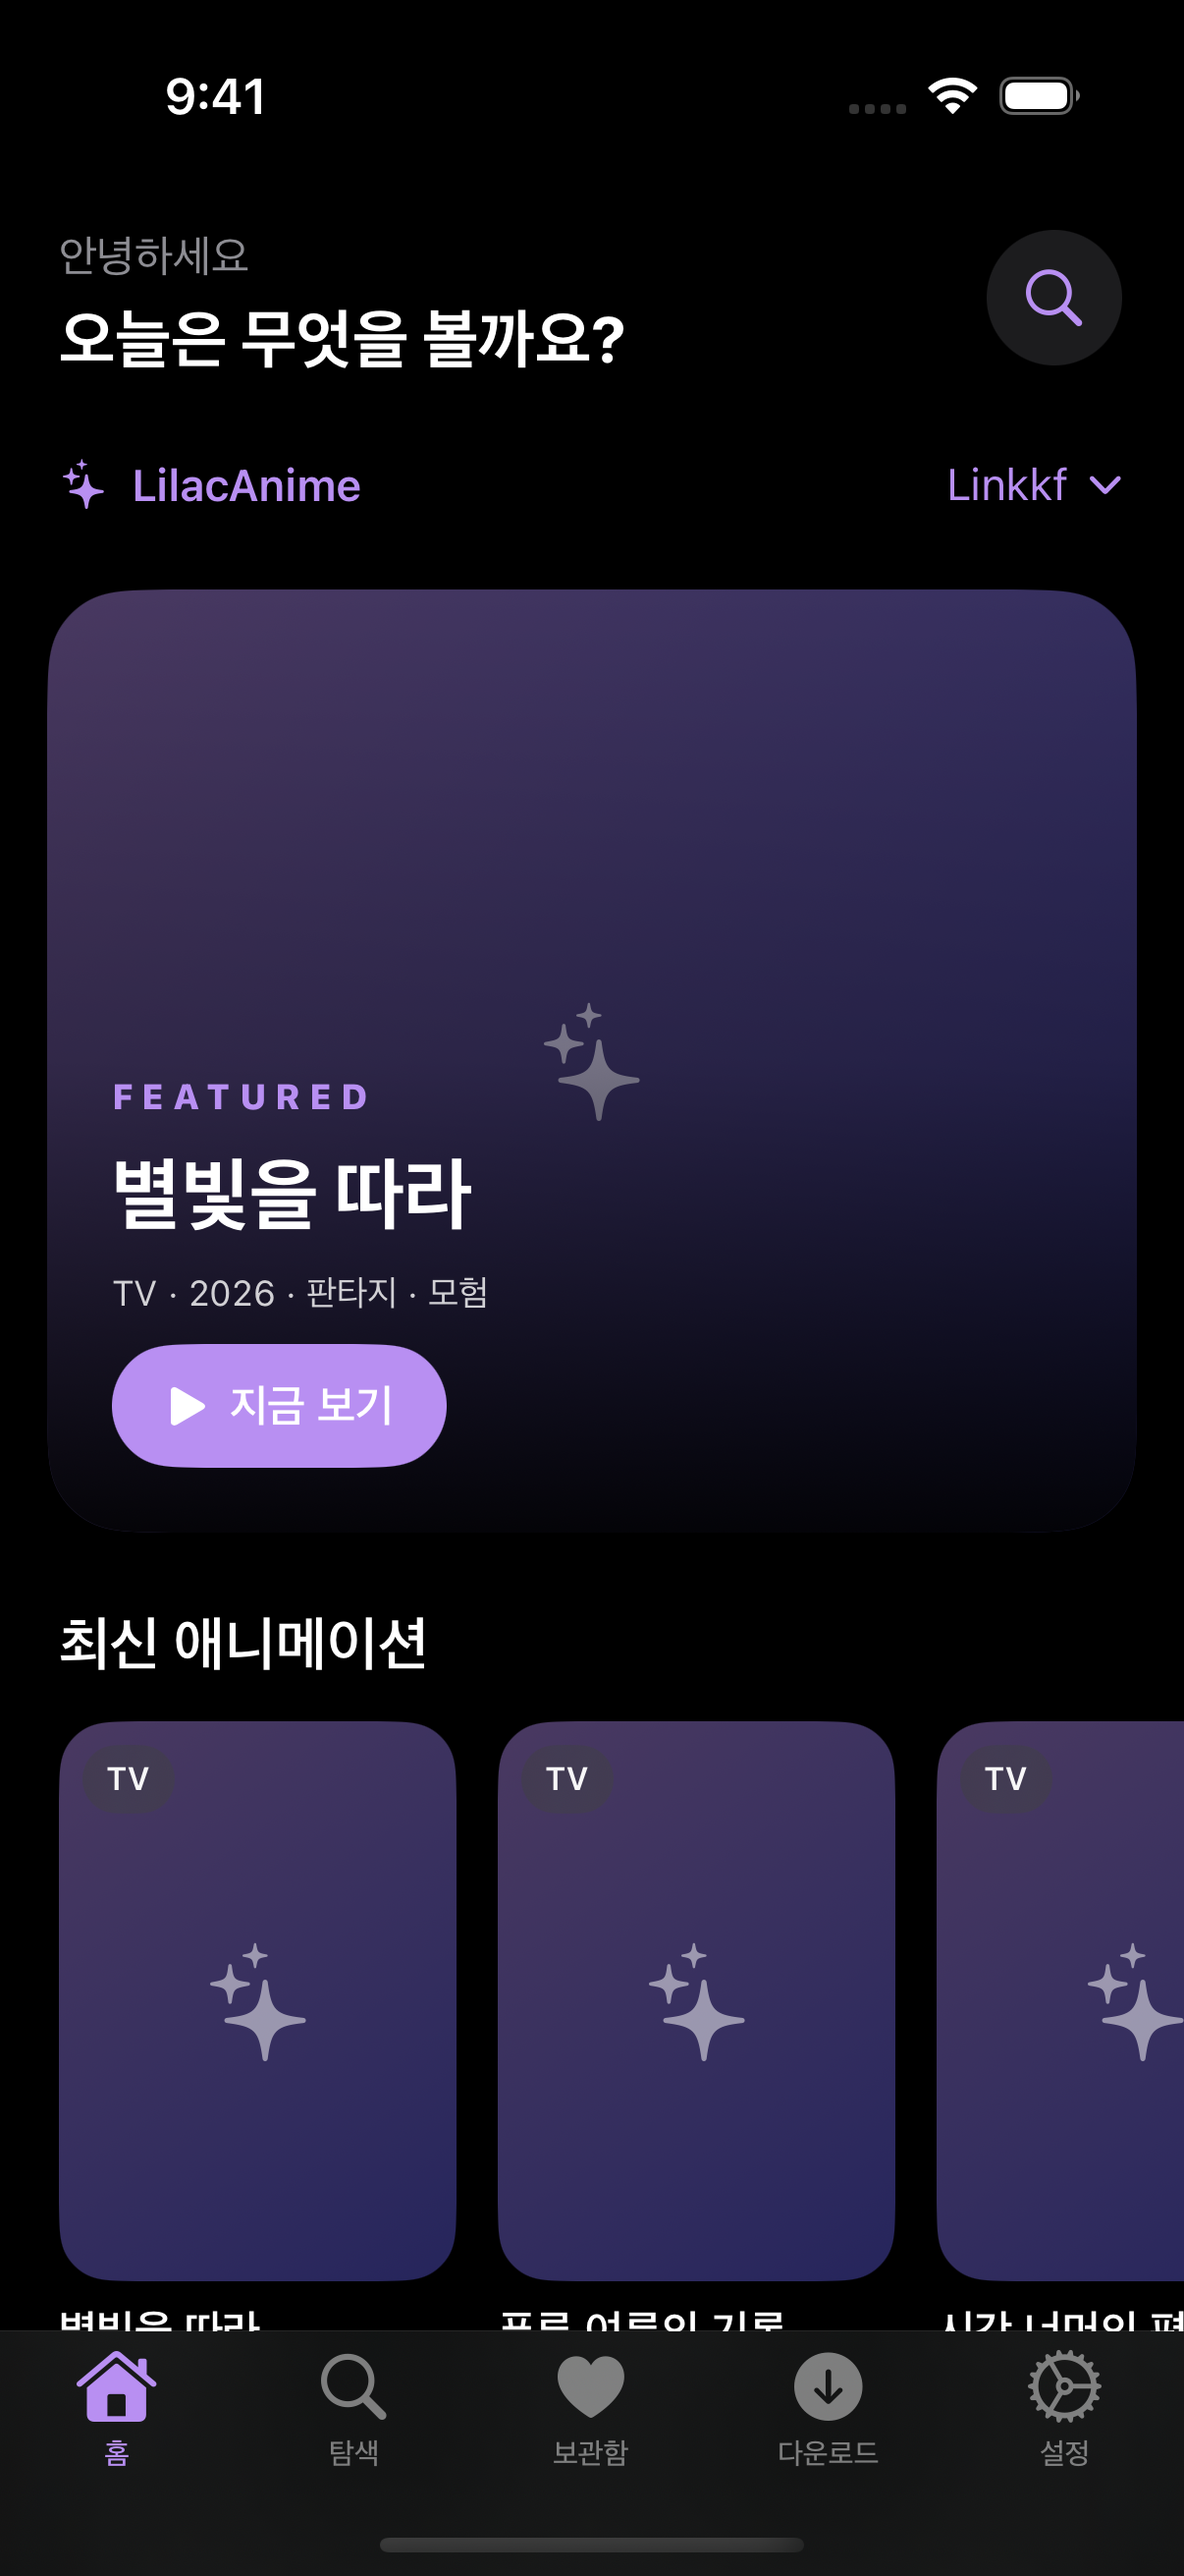
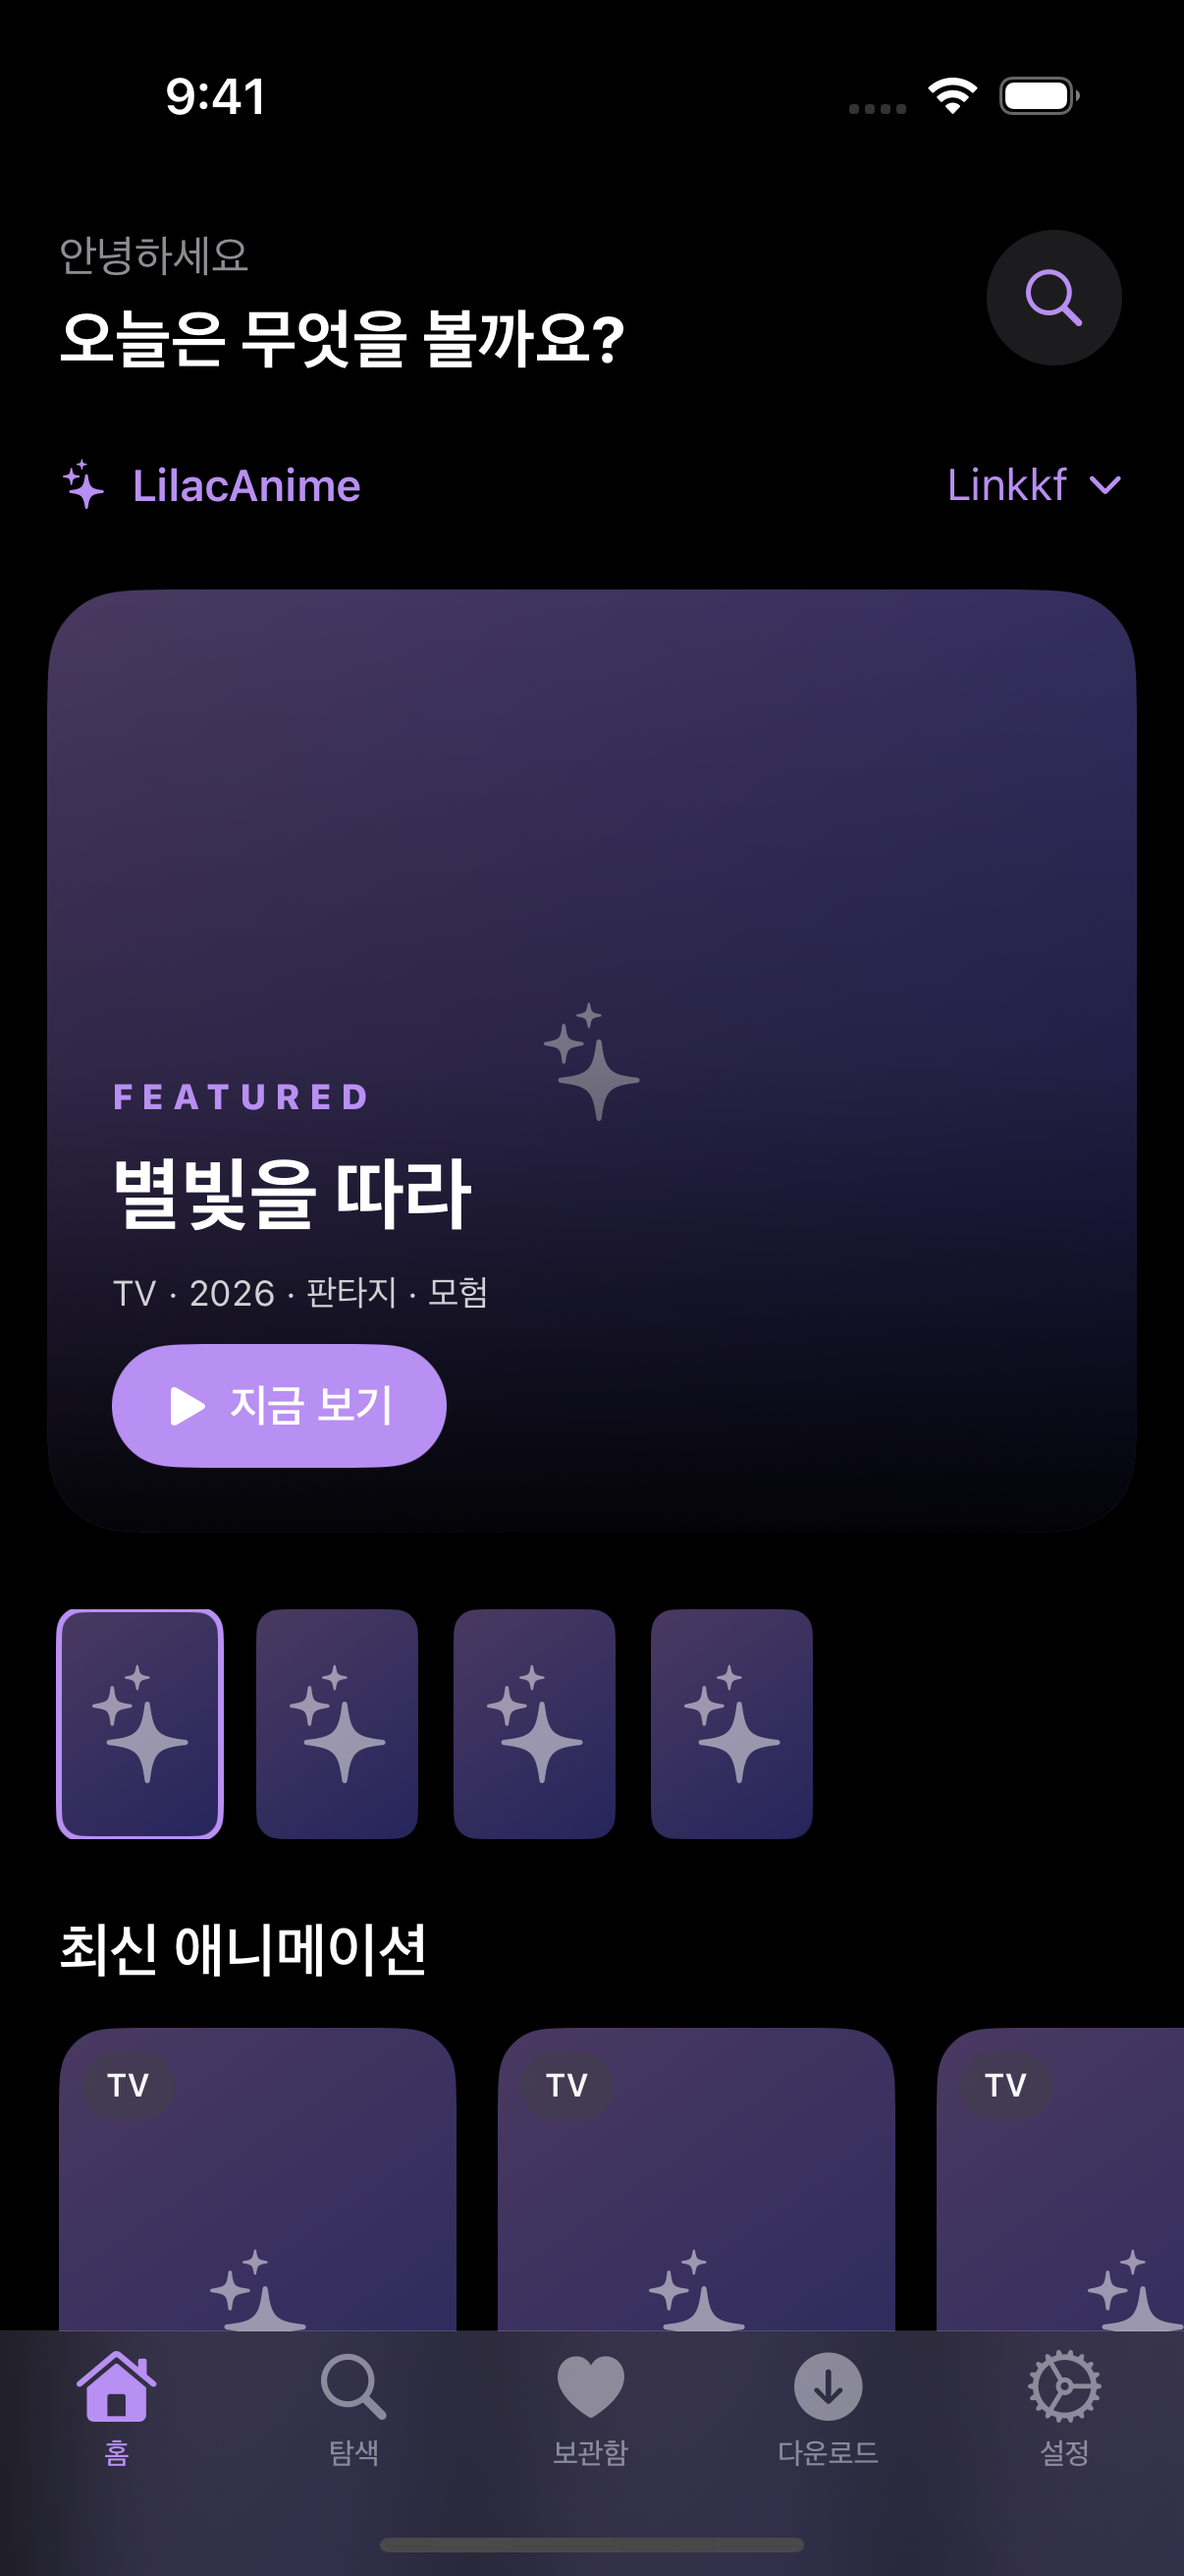
Document the verified desktop port and refresh iPhone and iPad screenshots

Changed region(s): [[0.0307, 0.6178, 1.0, 0.8341], [0.0, 0.865, 1.0, 1.0]]

diff --git a/docs/desktop-port.md b/docs/desktop-port.md
@@ -68,7 +68,7 @@
 ## 검증
 
 공통 JVM 테스트 33개: 파서·자막 타이밍/스타일·시즌/누적 회차·이름/호칭·모델 프롬프트·번역 모델 대체·OpenAI 과금 quota·캐시.
-네이티브 테스트: 이전 설정 JSON, 시청 기록/회차 suffix, 실제 Gemma 4/ChatML Jinja, 실제 tiny GGUF CPU 추론·재사용·metrics, ZIP/7z/RAR/CP949·추출 경로, 폴더 이전의 HLS 자산 및 resume 제외, 기존 LAN/HLS 테스트.
+네이티브 테스트 19개: 이전 설정 JSON, 시청 기록/회차 suffix, 실제 Gemma 4/ChatML Jinja, 실제 tiny GGUF CPU 추론·재사용·metrics, ZIP/7z/RAR/CP949·추출 경로, 폴더 이전의 HLS 자산 및 resume 제외, 기존 LAN/HLS 테스트.
 Actions는 KMP iOS 테스트·iPhone 테스트·iPhone/iPad 예시 캡처와 unsigned arm64 IPA를 생성합니다. 최신 통과 실행 링크는 [KMP_IOS.md](../KMP_IOS.md)에 기록합니다.
 
 대형 Gemma/Aya/Hy-MT2의 실기기 Metal 추론, 번역 품질·메모리, 외부 사이트의 실제 영상/첨부·로그인/캡차, SideStore 설치/폴더 앱 제공자/백그라운드 복귀, Chromecast 실물 동작은 아직 실기기 확인이 필요합니다. tiny GGUF는 런타임 동작 검증이며 대형 모델 성능 검증이 아닙니다.

diff --git a/README.md b/README.md
@@ -18,7 +18,7 @@
   작품 탐색부터 회차 재생, 자막 검색·번역, 이어보기와 오프라인 감상까지 제공합니다.
 </p>
 
-현재 Android 원본과 같은 **0.4.0**을 기준으로 iOS 빌드 **32**을 사용합니다.
+현재 Android 원본과 같은 **0.4.0**을 기준으로 iOS 빌드 **32**를 사용합니다.
 
 ## 주요 기능
 
@@ -42,6 +42,10 @@ PC 창 버튼·설치 프로그램·CUDA·외장 폴더 직접 지정은 iOS의 
   <img src="docs/screenshots/home-dark.png" width="230" alt="홈">
   <img src="docs/screenshots/detail-dark.png" width="230" alt="작품 상세">
   <img src="docs/screenshots/player-dark.png" width="230" alt="플레이어">
+</p>
+<p align="center">
+  <img src="docs/screenshots/catalog-dark.png" width="230" alt="전체 카탈로그">
+  <img src="docs/screenshots/models-dark.png" width="230" alt="로컬 AI 모델 관리">
 </p>
 <p align="center">
   <img src="docs/screenshots/workspace-ipad-dark.png" width="700" alt="iPad 데스크탑 작업 공간">
